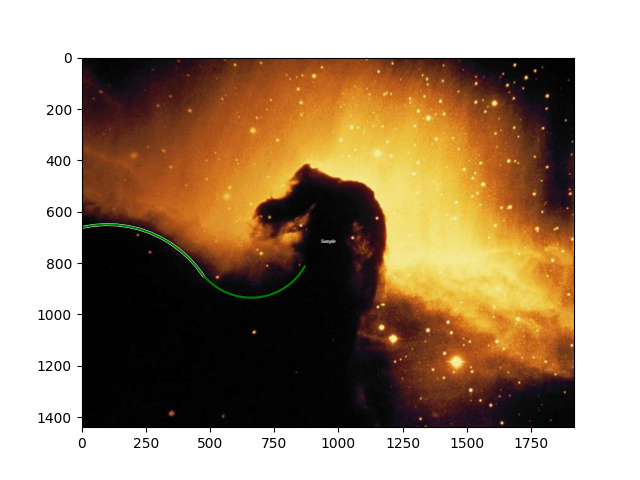
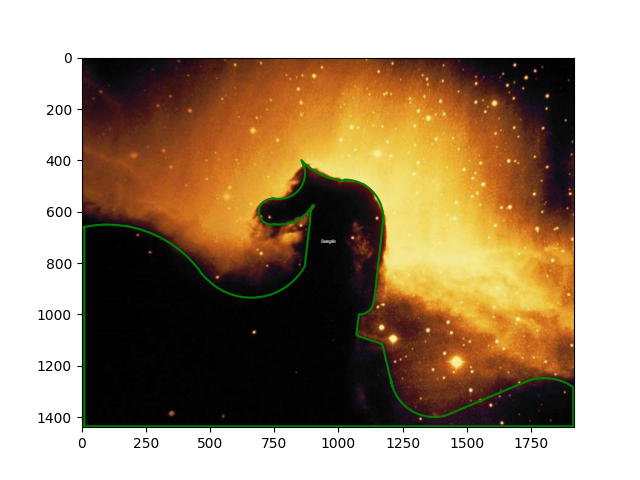
Horse_splain

diff --git a/Horse_splain.py b/Horse_splain.py
@@ -12,17 +12,103 @@ def circle(R, x0, y0, t0, t1):
     y = R * np.sin(t)+y0
     return x, y
 
+def circle_r(R, x0, y0, t0, t1):
+    t=np.arange(t1, t0, -0.1)
+    x = R * np.cos(t)+x0
+    y = R * np.sin(t)+y0
+    return x, y
+
 coords = circle(450, 100, 1100, -1.79, -0.5)
-plt.plot(coords[0], coords[1], lw=2, color='w', zorder=1)
 
-t=np.arange(8.6, 6.7, -0.1)
-x_1 = 240 * np.cos(t)+660
-y_1 = 240 * np.sin(t)+695
+coords_1 = circle_r(240, 660, 695, 6.7, 8.6)  
+x = np.append(coords[0], coords_1[0])
+y = np.append(coords[1], coords_1[1])
 
-         
-x = np.append(coords[0], x_1)
-y = np.append(coords[1], y_1)
 
+coords_line = np.array([[870, 890], [805, 630]])
+x = np.append(x, coords_line[0])
+y = np.append(y, coords_line[1])
+
+
+coords_3 = circle(50, 940, 615, 3.05, 4.05)
+x = np.append(x, coords_3[0])
+y = np.append(y, coords_3[1])
+
+
+coords_4 = circle(150, 770, 500, 6.8, 8)
+x = np.append(x, coords_4[0])
+y = np.append(y, coords_4[1])
+
+
+coords_5 = circle(50, 740, 600, 1.4, 4.9)
+x = np.append(x, coords_5[0])
+y = np.append(y, coords_5[1])
+
+
+coords_6 = circle_r(100, 770, 450, 6, 8.1)
+x = np.append(x, coords_6[0])
+y = np.append(y, coords_6[1])
+
+
+coords_7 = circle_r(250, 1040, 230, 1.5, 2.4)
+x = np.append(x, coords_7[0])
+y = np.append(y, coords_7[1])
+
+
+coords_8 = circle(150, 1025, 625, 4.7, 6.5)
+x = np.append(x, coords_8[0])
+y = np.append(y, coords_8[1])
+
+coords_line = np.array([[1175, 1140], [630, 940]])
+x = np.append(x, coords_line[0])
+y = np.append(y, coords_line[1])
+
+
+coords_10 = circle(55, 1083, 945, 6.4, 7.9)
+x = np.append(x, coords_10[0])
+y = np.append(y, coords_10[1])
+
+coords_line = np.array([[1080, 1070], [1000, 1080]])
+x = np.append(x, coords_line[0])
+y = np.append(y, coords_line[1])
+
+
+coords_line = np.array([[1079, 1170], [1085, 1115]])
+x = np.append(x, coords_line[0])
+y = np.append(y, coords_line[1])
+
+
+coords_line = np.array([[1171, 1210], [1116, 1280]])
+x = np.append(x, coords_line[0])
+y = np.append(y, coords_line[1])
+
+
+coords_14 = circle_r(170, 1373, 1230, 1.2, 3)
+x = np.append(x, coords_14[0])
+y = np.append(y, coords_14[1])
+
+
+coords_line = np.array([[1440, 1710], [1385, 1270]])
+x = np.append(x, coords_line[0])
+y = np.append(y, coords_line[1])
+
+
+coords_16 = circle(200, 1802, 1448, -2, -0.9)
+x = np.append(x, coords_16[0])
+y = np.append(y, coords_16[1])
+
+
+coords_line = np.array([[1915, 1915], [1283, 1435]])
+x = np.append(x, coords_line[0])
+y = np.append(y, coords_line[1])
+
+coords_line = np.array([[1916, 0], [1436, 1436]])
+x = np.append(x, coords_line[0])
+y = np.append(y, coords_line[1])
+
+coords_line = np.array([[10, 10], [1430, 660]])
+x = np.append(x, coords_line[0])
+y = np.append(y, coords_line[1])
 
 spline_coords, figure_spline_part = interpolate.splprep([x, y], s=0)
 spline_curve = interpolate.splev(figure_spline_part, spline_coords)
